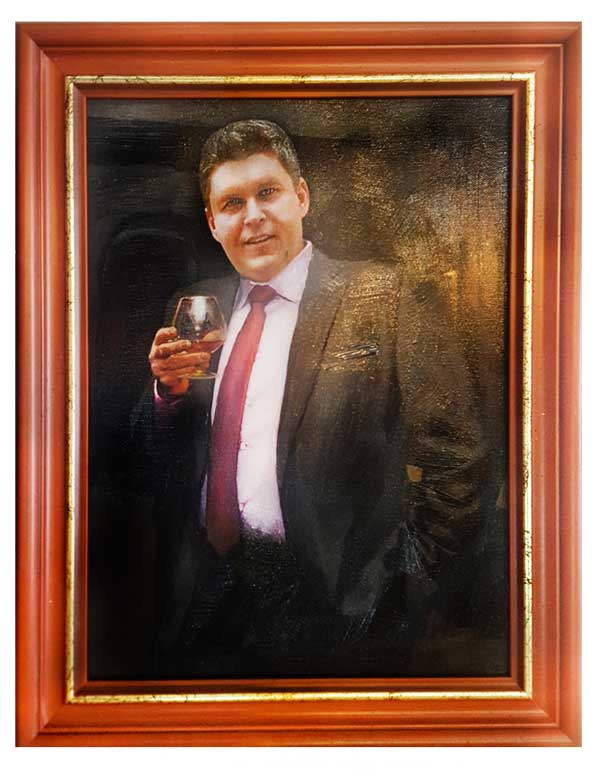
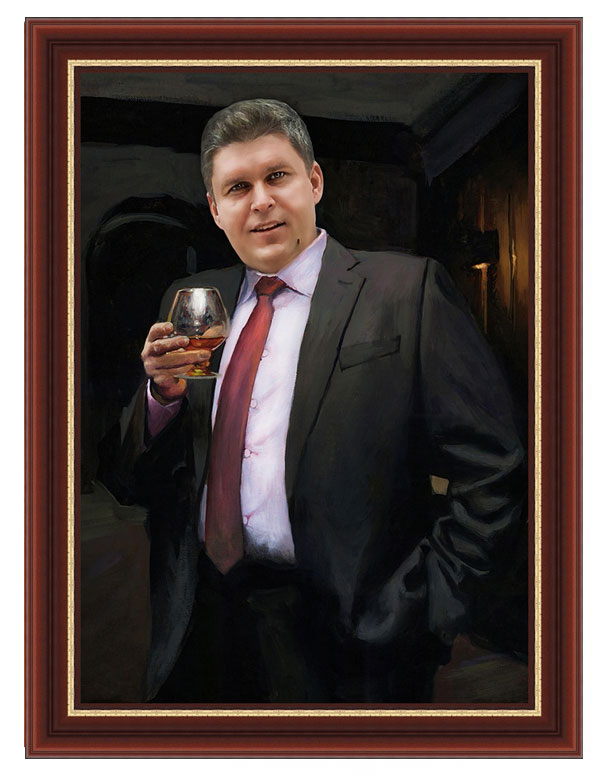
portrethit

diff --git a/wowportret/templates/wowportret/portret.html b/wowportret/templates/wowportret/portret.html
@@ -16,23 +16,39 @@
         <div class="container">
         <div class="header-portret mb">
                 <div class="row">
-                    <div class="col-xs-10 col-xs-offset-1 col-sm-8 col-md-6 col-sm-offset-2 col-md-offset-3 col-xl-4 col-xl-offset-3">
-                        <h1 class="h-portret"><span>Портреты на холсте в образе</span> </h1>
+                    <div class="col-xs-12 col-md-offset-3 col-md-6">
+                        <h1 class="red mt"><span>Портреты на холсте в образе</span> </h1>
                     </div>
-                    <div class="col-xl-4 hidden-lg-down">
+                    <!-- <div class="col-xl-4 hidden-lg-down">
                         <img class="img-responsive img-full-width" src="{% static 'img/content/portret/ram2.png' %}" alt="">
-                    </div>
+                    </div> -->
                 </div>
                 <div class="row">
                 <div class="hidden-sm-down">
-                    <div class="col-xl-2 col-xl-offset-1 mt hidden-lg-down">
-                        <img class="img-responsive img-full-width" src="{% static 'img/content/portret/ram4.jpg' %}" alt="">
+                    <div class="col-lg-offset-0 col-lg-5 col-md-offset-2 col-md-8">
+                        <img class="ram21 ram-shdw" src="{% static 'img/content/portret/ram21.jpg' %}" alt="">
                     </div>
-                    <div class="col-md-6 col-lg-6 col-xl-4 text-xs-center">
-                        <img class="img-responsive img-full-width" src="{% static 'img/content/portret/ram1.jpg' %}" alt="">
+                    <div class="col-lg-3 hidden-md-down">
+                        <img class="ram22" src="{% static 'img/content/portret/ram21.png' %}" alt="">
                     </div>
-                    <div class="col-md-6 col-lg-6 col-xl-4 mt">
-                        <img class="img-responsive img-full-width" src="{% static 'img/content/portret/ram3.jpg' %}" alt="">
+                    <div class="col-lg-4 hidden-md-down">
+                        <img class="ram23 " src="{% static 'img/content/portret/ram22.png' %}" alt="">
+                    </div>
+                </div>
+                </div>
+                <div class="row" style=" margin-top: 363px;">
+                <div class="hidden-sm-down">
+                    <div class="col-lg-2 col-md-3">
+                        <img class="ram31 ram-shdw" src="{% static 'img/content/portret/ram31.jpg' %}" alt="">
+                    </div>
+                    <div class="col-lg-2 hidden-md-down">
+                        <img class="ram32 ram-shdw" src="{% static 'img/content/portret/ram32.jpg' %}" alt="">
+                    </div>
+                    <div class="col-lg-4 col-md-6">
+                        <img class="ram33 ram-shdw" src="{% static 'img/content/portret/ram33.jpg' %}" alt="">
+                    </div>
+                    <div class="col-lg-3 col-md-3">
+                        <img class="ram34 ram-shdw" src="{% static 'img/content/portret/ram34.jpg' %}" alt="">
                     </div>
                 </div>
                 </div>

diff --git a/wowportret/static/css/full-width-pics.css b/wowportret/static/css/full-width-pics.css
@@ -178,10 +178,53 @@ footer {
 
 
 .how-to {
-    min-height: 400px;
-    background-color: rgba(255, 255, 0, 0.44);;
+    height: 775px;
+    background: url(../img/content/main/how_to.jpg) no-repeat;
+    background-size: 100%;
+    background-position: 50% 100%;
 }
+.how-to-text {
+    color: black;
+    font-size: 42px;
+    font-weight: 400;
+    font-family: "Blogger Sans";
+}
+#how-top {
+    width: 430px;
+    height: 83px;
+    margin-left: 35%;
 
+}
+#how-left {
+    width: 468px;
+    height: 83px;
+    float: left;
+    /* margin-left: 7%; */
+    margin-left: 60px;
+    margin-top: 17px;
+}
+#how-right {
+    width: 442px;
+    height: 83px;
+    float: right;
+
+}
+#how-btm-right {
+    width: 419px;
+    height: 82px;
+    float: right;
+    margin-top: 322px;
+    margin-right: 45px;
+
+}
+#how-btm-left {
+    width: 451px;
+    height: 74px;
+    float: left;
+    margin-top: 406px;
+    margin-left: 76px;
+
+}
 .price {
     min-height: 400px;
     background-color: rgba(255, 255, 0, 0.44);;
@@ -358,7 +401,11 @@ footer {
     background: -o-linear-gradient(#141c2a, rgba(255, 255, 0, 0)); /* For Opera 11.1 to 12.0 */
     background: -moz-linear-gradient(#141c2a, rgba(255, 255, 0, 0)); /* For Firefox 3.6 to 15 */
     background: linear-gradient(#141c2a, rgba(255, 255, 0, 0)); /* Standard syntax */
-    height: 537px;
+    height: 816px;
+}
+
+.header-portret {
+    /*height: 700px;*/
 }
 
 .h-portret {
@@ -379,6 +426,50 @@ footer {
     height: 300px;
     width: 600px;
     text-align: center;
+}
+
+.ram-shdw {
+    box-shadow: 0 0 1.625em .08em rgba(0,0,0,.05);
+    -moz-box-shadow: 0 0 1.625em .08em rgba(0,0,0,.05);
+    -webkit-box-shadow: 0 0 1.625em 0.08em rgba(0,0,0,5.05);
+}
+
+.ram21 {
+    position: absolute;
+    width: 98%;
+}
+
+.ram22 {
+    position: absolute;
+    width: 117%;
+    left: 28px;
+}
+
+.ram23 {
+    position: absolute;
+    width: 98%;
+    left: 40px;
+    top: -11px;
+}
+.ram31 {
+    width: 100%;
+    position: absolute;
+    top: 50px;
+    left: -13px;
+}
+.ram32 {
+    width: 100%;
+    position: absolute;
+    top: 21px;
+}
+.ram33 {
+    width: 85%;
+    position: absolute;
+    left: 48px;
+}
+.ram34 {
+    width: 100%;
+    position: absolute;
 }
 
 /*---- popart ---- */
@@ -704,6 +795,7 @@ footer {
         left: -200px;
         top: 100px;
     }
+
 }
 
 @media(max-width:768px) {

diff --git a/wowportret/templates/wowportret/index.html b/wowportret/templates/wowportret/index.html
@@ -101,6 +101,30 @@
             </div>
         </div>
 
+        <div class="row">
+        <div class="how-to mt text-xs-center">
+        <div style="margin-top: 15px;">
+        <p id="how-top" class="how-to-text">
+        Как мы это делаем
+        </p>
+        <p id="how-left" class="how-to-text">
+        Оформляем в деревянный багет
+        </p>
+        <p id="how-right" class="how-to-text">
+        Дорабатываем арт гелем или маслом
+        </p>
+        </div>
+        <div style="margin-top: 50px;">
+        <p id="how-btm-right" class="how-to-text">
+        Натягиваем на деревянный подрамник
+        </p>
+        <p id="how-btm-left" class="how-to-text">
+        Печатаем на натуральном холсте
+        </p>
+        </div>
+        </div>
+        </div>
+
 <!--         <div class="row">
             <div class="col-xs-12 text-xs-center">
                 <p class="text-back">

diff --git a/wowportret/views.py b/wowportret/views.py
@@ -100,15 +100,15 @@ def get_form(request):
                 "wowportret.ru",
                 content,
                 "wowportret.ru" + '',
-                ['kateart@wowportret.ru'],
+                ['kateart222@gmail.com'],
                 headers={'Reply-To': contact_email}
             )
             if request.FILES:
                 image = request.FILES['docfile']
                 newdoc = Document(docfile=image)
                 newdoc.save()
-                email.attach('attached_file',
-                             image.read(), image.content_type)
+                email.attach_file(newdoc.docfile.path)
+
             email.send()
             sended = True
     return form_class, sended
